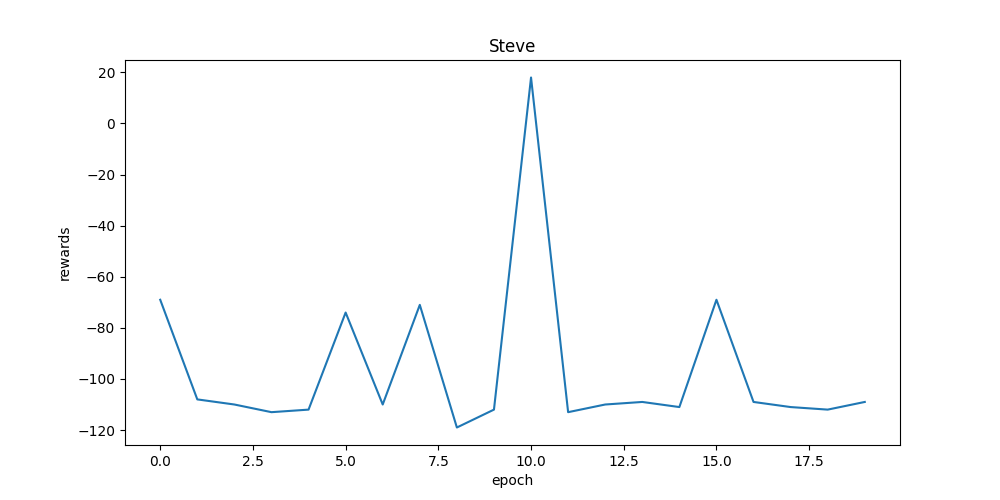
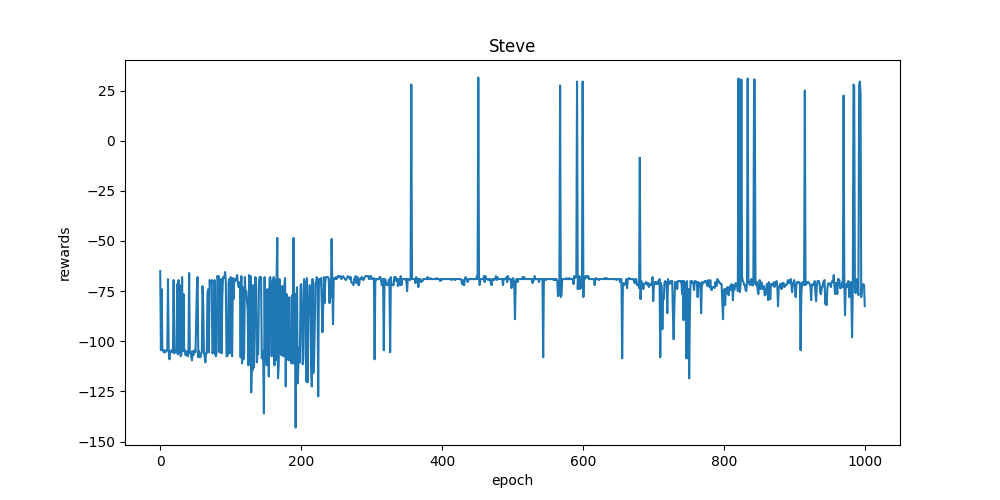
Tweak reward value

diff --git a/code/Train/DQN.py b/code/Train/DQN.py
@@ -112,14 +112,14 @@ class Agent():
         """
         
         # self.actions = ["movenorth 1", "movesouth 1", "movewest 1", "moveeast 1"]
-        self.actions = ["move 1","move 1","move 1", "move -1", "turn 1", "turn -1", "jump 1"]
+        self.actions = ["move 1","move 0.5","move 0.5", "move -1", "turn 0.5", "turn -0.5", "jump 1"]
         self.n_actions = len(self.actions)  # the number of actions
         self.count = 0
 
         # self.epsilon = 0.2 # chance of taking a random action instead of the best
         self.epsilon = 1.0  # 初始 epsilon 值
-        self.epsilon_decay_rate = 0.999 # epsilon 的衰減率
-        self.epsilon_min = 0.01  # epsilon 的最小值
+        self.epsilon_decay_rate = 0.9999 # epsilon 的衰減率
+        self.epsilon_min = 0.15  # epsilon 的最小值
 
         self.learning_rate = 0.001
         self.gamma = 0.9
@@ -328,18 +328,18 @@ with open(mission_file, 'r') as f:
     mission_xml = f.read()
     my_mission = MalmoPython.MissionSpec(mission_xml, True)
 
-# add 20% holes for interest
-for x in range(1,4):
-    for z in range(1,13):
-        if random.random()<0.1:
-            my_mission.drawBlock( x,45,z,"lava")
+# # add 20% holes for interest
+# for x in range(1,4):
+#     for z in range(1,13):
+#         if random.random()<0.1:
+#             my_mission.drawBlock( x,45,z,"lava")
 
 max_retries = 3
 
 if agent_host.receivedArgument("test"):
     num_repeats = 1
 else:
-    num_repeats = 20
+    num_repeats = 1000
 
 cumulative_rewards = []
 for i in range(num_repeats):
@@ -364,7 +364,7 @@ for i in range(num_repeats):
     world_state = agent_host.getWorldState()
     while not world_state.has_mission_begun:
         print(".", end="")
-        # time.sleep(0.1)
+        time.sleep(0.1)
         world_state = agent_host.getWorldState()
         for error in world_state.errors:
             print("Error:",error.text)
